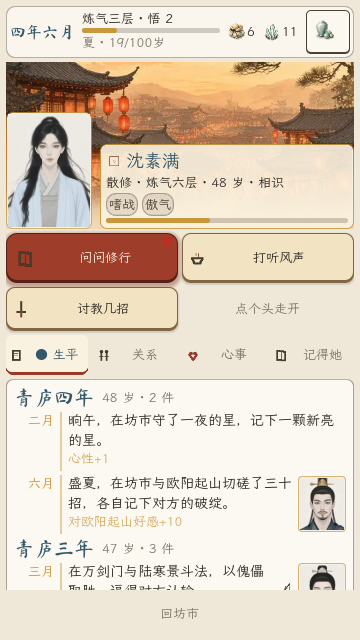
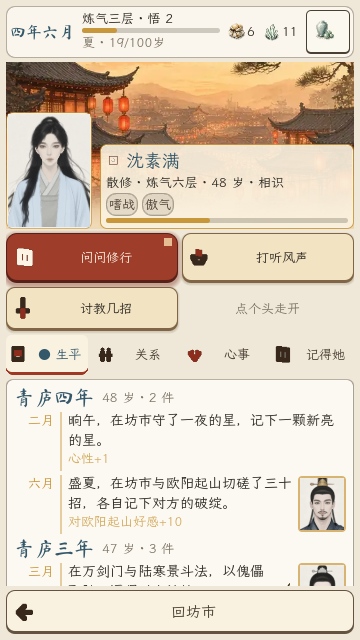
v0.16.7：主钮改米白字，人脸去白块，底栏字分开
朱砂主钮的字和图标改成米白（实心像素对比约 6:1）。坊市和江湖的人脸用纸色淡金框，关系一行不再被卡片切掉，宽屏排三列。底栏图标在上、字在下，未选中也是深墨。「回坊市」「回江湖」改成带箭头的返回钮。短提示按屏宽封高，不再盖住底栏，360 的法衣槽能点到。

diff --git a/STATUS.md b/STATUS.md
@@ -6,11 +6,12 @@
 - 存档主版本仍是 5。经济常量、感悟/好感/风声/灵石的加减都没动。只改怎么画。
 - **玩家这边：** 生平条目旁边的小头像有一块难看的白底，行高一变就被拉扁。人物详情页的按钮都一样大，没有图标，也没有主次，整页像纸色方块叠起来，不想点。
 - **小头像：** 生平、人物详情生平、关系、江湖传闻、门下、行内选项、地点抽屉里的熟人，都改成和人物卡同一套纸色淡金框。宽高锁在脸部裁切上（约 44×52，外框 48×56），不跟着文字行被拉高或挤窄；窄的时候字换行。缩略图视口本来就是透明的，白底是底头贴图自己的纸色；裁切缝垫上同一层纸色，不再落成白底或黑底。拍好的图若比例变了，按新尺寸重拍，不把脸拉扁。
-- **按钮：** 见 `docs/ui_visual_v0167.md`。主操作（问问修行、买辟谷丹、差事榜、出发、新游戏、冲关、静室「一年」）是朱砂大钮，带水墨小图标，右上角一点红。次操作是暖纸色木牌，对得上的动作带图标。点个头走开、收起、返回、回江湖这类是淡字，没有框。底栏和人物页签是图标加字，选中的底下一条朱砂。按下缩到 0.94。小图标是 `scripts/ink_glyph.gd` 里自制的墨线，不另借图标包。
+- **按钮：** 见 `docs/ui_visual_v0167.md`。主操作（问问修行、买辟谷丹、差事榜、出发、新游戏、冲关、静室「一年」）是朱砂大钮，字和图标都是米白。窗口截图里量过：朱砂底约 (158, 61, 41)，字的实心像素约 (251, 242, 227)，对比约 6.0:1（坊市两个主钮、静室「一年」、人物页「问问修行」都量过，不低于 4.5:1）。次操作是暖纸色木牌。点个头走开、收起、返回是淡字。「回江湖」「回坊市」是清楚的纸色返回钮，左侧一个箭头。底栏垫实纸，图标在上、两个字在下，未选中也是深墨（纸上对比约 12:1），不和字叠在一起。按下缩到 0.94。小图标是 `scripts/ink_glyph.gd` 里自制的，32×32 实心笔画，显示成 22–24px。
+- **人脸格：** 坊市、江湖列表里的立绘换成纸色淡金框，不再是一块白底方块。名字下面的「相熟·闲逛」这类一行完整露出来。宽屏排三列。
 - **画面：** 人物详情顶上是这个人所在地方的图（竖幅取上半），立绘站在下沿，不到半屏；名字、境界、关系写在叠上去的纸牌上。江湖、行囊、生平页首有一条画。器物铺、药铺、差事榜、拍卖、闭关须知的抽屉顶上有一条对应的图。门下靠每一行的头像。
 - 规范：布局仍是 `docs/ui_layout_v0165.md`。视觉分级写在 `docs/ui_visual_v0167.md`，没有把点人、短提示、首屏收紧退回去。
 - 对照：`docs/art/v0167/`（360×640 与 390×844 的青庐、静室、行囊、江湖、坊市、人物、生平，改前/改后，以及 `compare_all.png`）。窗口截图，llvmpipe，不是真机。
-- 测试：本机（XDG_DATA_HOME=/tmp/xdg_v0167b）`tools/run_tests.sh` **EXIT 0**（规则 111/0，江湖、UI 冒烟、游历、装备、经济、storylet、saga、境界、review、乱点、百年都过；玩家版 Web 已导出）。本地发布包 release_check（无头 Chrome，swiftshader，模拟触控，不是真机）390×844 **38/38、0 报错**，启动 1.9 秒；360×640 **37/38、0 报错**，启动 1.7 秒。标题页没有 `window.qinglu_dev`。两种尺寸都点开了人物卡并走了「问问修行」，买下（390 过了；360 这一轮也买下了）、指点（日子 30→31）、代炼（灵石 730→714）、货郎（「驱瘴丹×4 换 续骨草×1」，灵石不变）都过了。360 法衣槽那一步没点到。窗口截图，不是真机。**没有在真机上测过。**
+- 测试：本机（XDG_DATA_HOME=/tmp/xdg_v0167c）`tools/run_tests.sh` **EXIT 0**（规则 111/0，江湖、UI 冒烟、游历、装备、经济、storylet、saga、境界、review、乱点、百年都过；玩家版 Web 已导出）。本地发布包 release_check（无头 Chrome，swiftshader，模拟触控，不是真机）390×844 **38/38、0 报错**，启动 1.9 秒；360×640 **38/38、0 报错**，启动 1.9 秒。标题页没有 `window.qinglu_dev`。两种尺寸都点开了人物卡并走了「问问修行」，买下（390 玉佩，360 道袍）、指点（日子 30→31）、法衣槽是道袍、代炼（灵石 730→714）、货郎（「驱瘴丹×4 换 续骨草×1」，灵石不变）都过了。上一轮 360 没点到法衣槽，是因为「新去处」那条长提示按一字一行撑高，盖住了底栏，点「行囊」点在提示上。这一轮把提示按屏宽量高、封在顶栏下面，360 点进了行囊。窗口截图，不是真机。**没有在真机上测过。**
 
 ## v0.16.6（抽屉能关上；不挡底栏；买完可接着挑）
 - 已合入 main（PR #7，合并提交 3808dbb），Pages 工作流 **42904461655**（build 2026-11-10 21:28:37 UTC 完成，deploy 2026-11-10 21:31:00 UTC 完成，约 05:31 北京时间）。线上 `index.html` Last-Modified 是 2026-11-10 21:30:54 GMT，`index.js` 21:30:37 GMT，`index.wasm` 21:28:53 GMT，`index.pck` 21:30:43 GMT。存档主版本仍是 5。经济常量、感悟/好感/风声/灵石的加减都没动。

diff --git a/docs/ui_visual_v0167.md b/docs/ui_visual_v0167.md
@@ -8,15 +8,18 @@
 
 按按钮文字自动分档（`main.gd` 的 `_btn_rank`）。字不变，测试仍按原文点。
 
-1. **主操作。** 朱砂底、白字、比别的高一截，左侧是水墨小图标，右上角一点红在轻轻闪。按下缩到 0.94 并换成更深的朱砂。用在：问问修行、买辟谷丹、差事榜、出发、新游戏、冲关、静室里的「一年」。
+1. **主操作。** 朱砂底，字和图标都是米白（对比不低于 4.5:1），比别的高一截，右上角一点浅金在轻轻闪。按下缩到 0.94 并换成更深的朱砂。用在：问问修行、买辟谷丹、差事榜、出发、新游戏、冲关、静室里的「一年」。
 2. **次操作。** 木牌：暖纸色、深褐边、底边加厚，像一块薄木片。能对上的动作带小图标（打听风声、讨教、换丹、结伴、问去路、器物铺、药铺、去别处、回青庐）。按下变暗、缩一下。
-3. **弱操作。** 没有框，只有一行淡字。用在：点个头走开、收起、返回、回去、算了、不必再提、回江湖、回坊市、回标题、回铺子、闭关须知、题头上的行记。点按区域仍在，只是看起来轻。
+3. **弱操作。** 没有框，只有一行淡字。用在：点个头走开、收起、返回、回去、算了、不必再提、回标题、回铺子、闭关须知、题头上的行记。点按区域仍在，只是看起来轻。
+4. **返回。** 「回江湖」「回坊市」是清楚的纸色按钮，左侧一个返回箭头，字是深墨，不像灰掉的禁用态。
 
-底栏（青庐、历练、行囊、江湖、生平）是图标加两个字，不再是一排木牌。选中的底下一条朱砂。人物页的生平 / 关系 / 心事 / 记得她同样是图标页签，选中的有朱砂下划线。
+底栏垫一层实纸。每个页签图标在上（22px）、两个字在下，未选中也是深墨，不和字叠在一起。选中的底下一条朱砂。人物页的生平 / 关系 / 心事 / 记得她同样是图标页签，未选中也是深墨。
+
+坊市、江湖的人脸是三列，纸色淡金框，名字下面的关系一行完整露出来。
 
 ## 小图标
 
-`scripts/ink_glyph.gd` 在游戏里用墨线画 28×28 的透明图，不另借图标包。问修行是书卷，打听风声是茶盏，讨教是剑，换丹是丹瓶，结伴是两个人，问去路是石径，闭关 / 一年是门，行囊是口袋，器物铺是铺面，药铺是草，历练是山。行囊格子、器物槽仍用原来的器物图。
+`scripts/ink_glyph.gd` 在游戏里画 32×32 的透明小图，显示成 22–24px，笔画加粗、实心，不另借图标包。主钮上的图标是米白，木牌和底栏上是深墨。问修行是书卷，打听风声是茶盏，讨教是剑，换丹是丹瓶，结伴是两个人，问去路是石径，闭关 / 一年是门，行囊是口袋，器物铺是铺面，药铺是草，历练是山，返回是箭头。行囊格子、器物槽仍用原来的器物图。
 
 ## 画面
 
@@ -25,4 +28,4 @@
 - **器物铺、药铺、差事榜、拍卖、静室须知：** 抽屉顶上一条对应的图，下面才是货和说明。门下靠每一行的头像，不再在顶上加一条图，免得把「指点」挤出小屏。
 - **坊市：** 买卖和差事是主操作（朱砂），铺子是木牌，茶肆那些仍是图牌。
 
-按下都有缩放。主操作可用时右上角的红点会呼吸一下。
+按下都有缩放。主操作可用时右上角一点浅金会呼吸一下。短提示按屏宽量高度，最多两行，停在顶栏下面，不盖住底栏。
